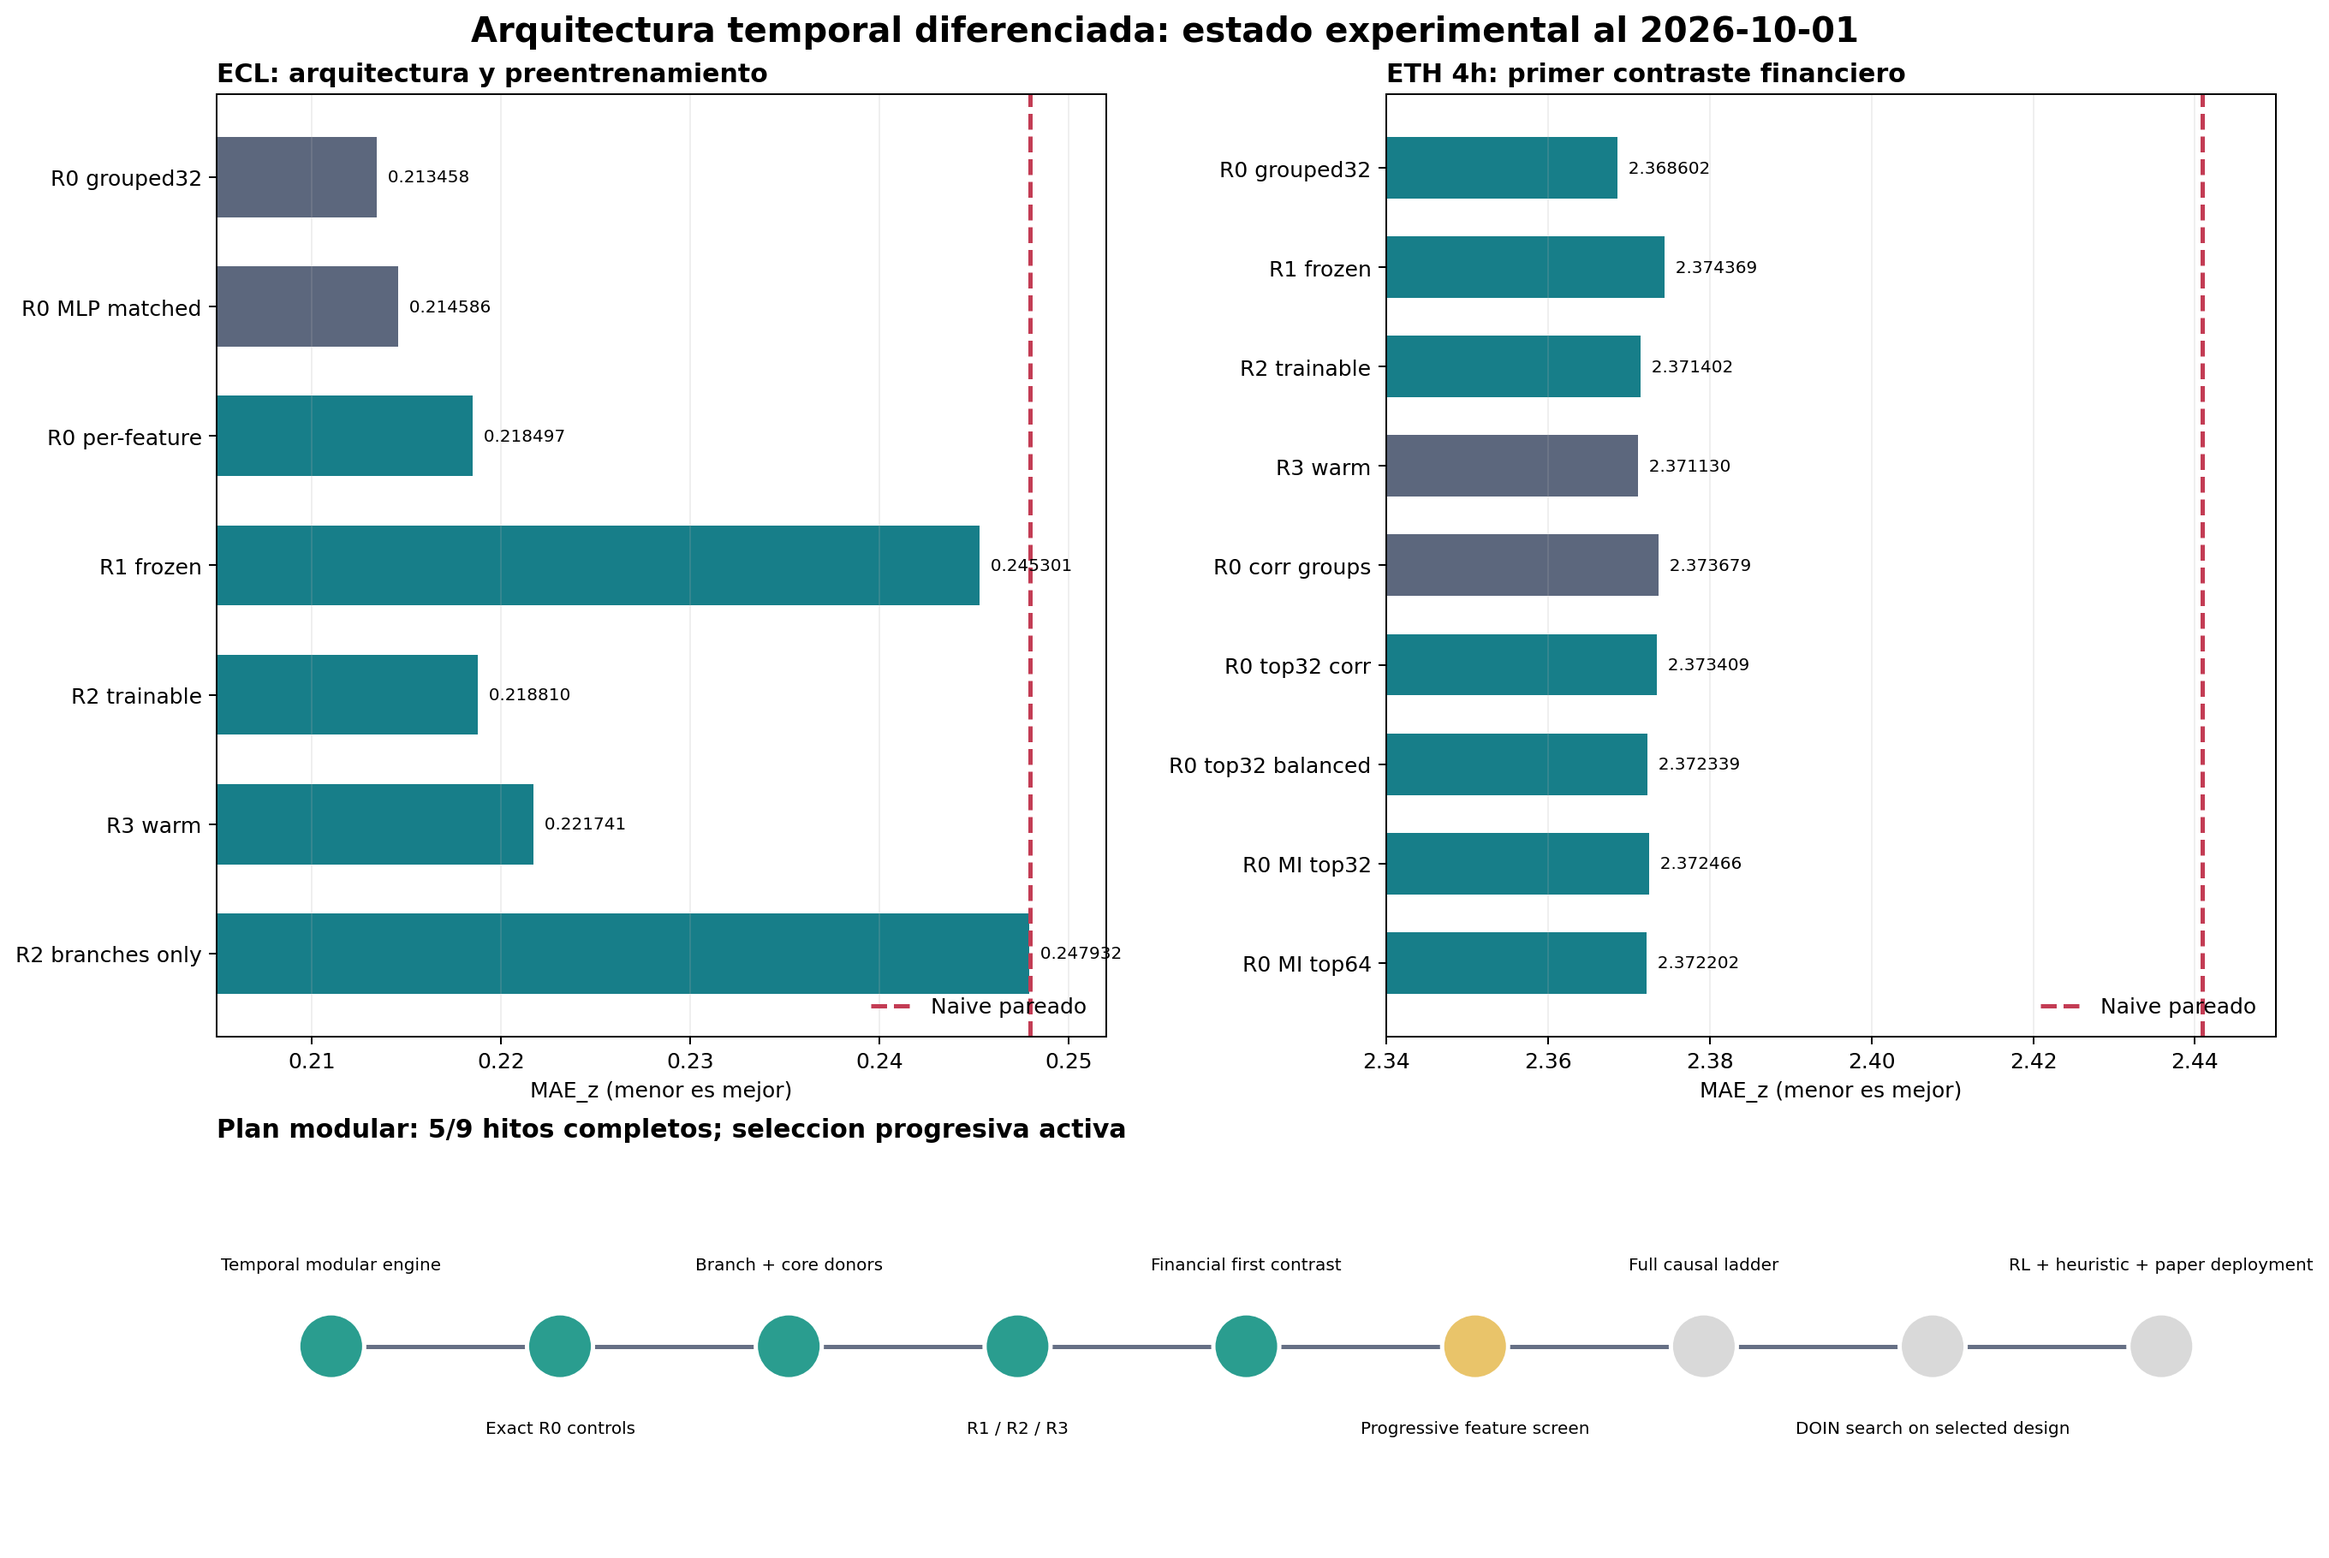
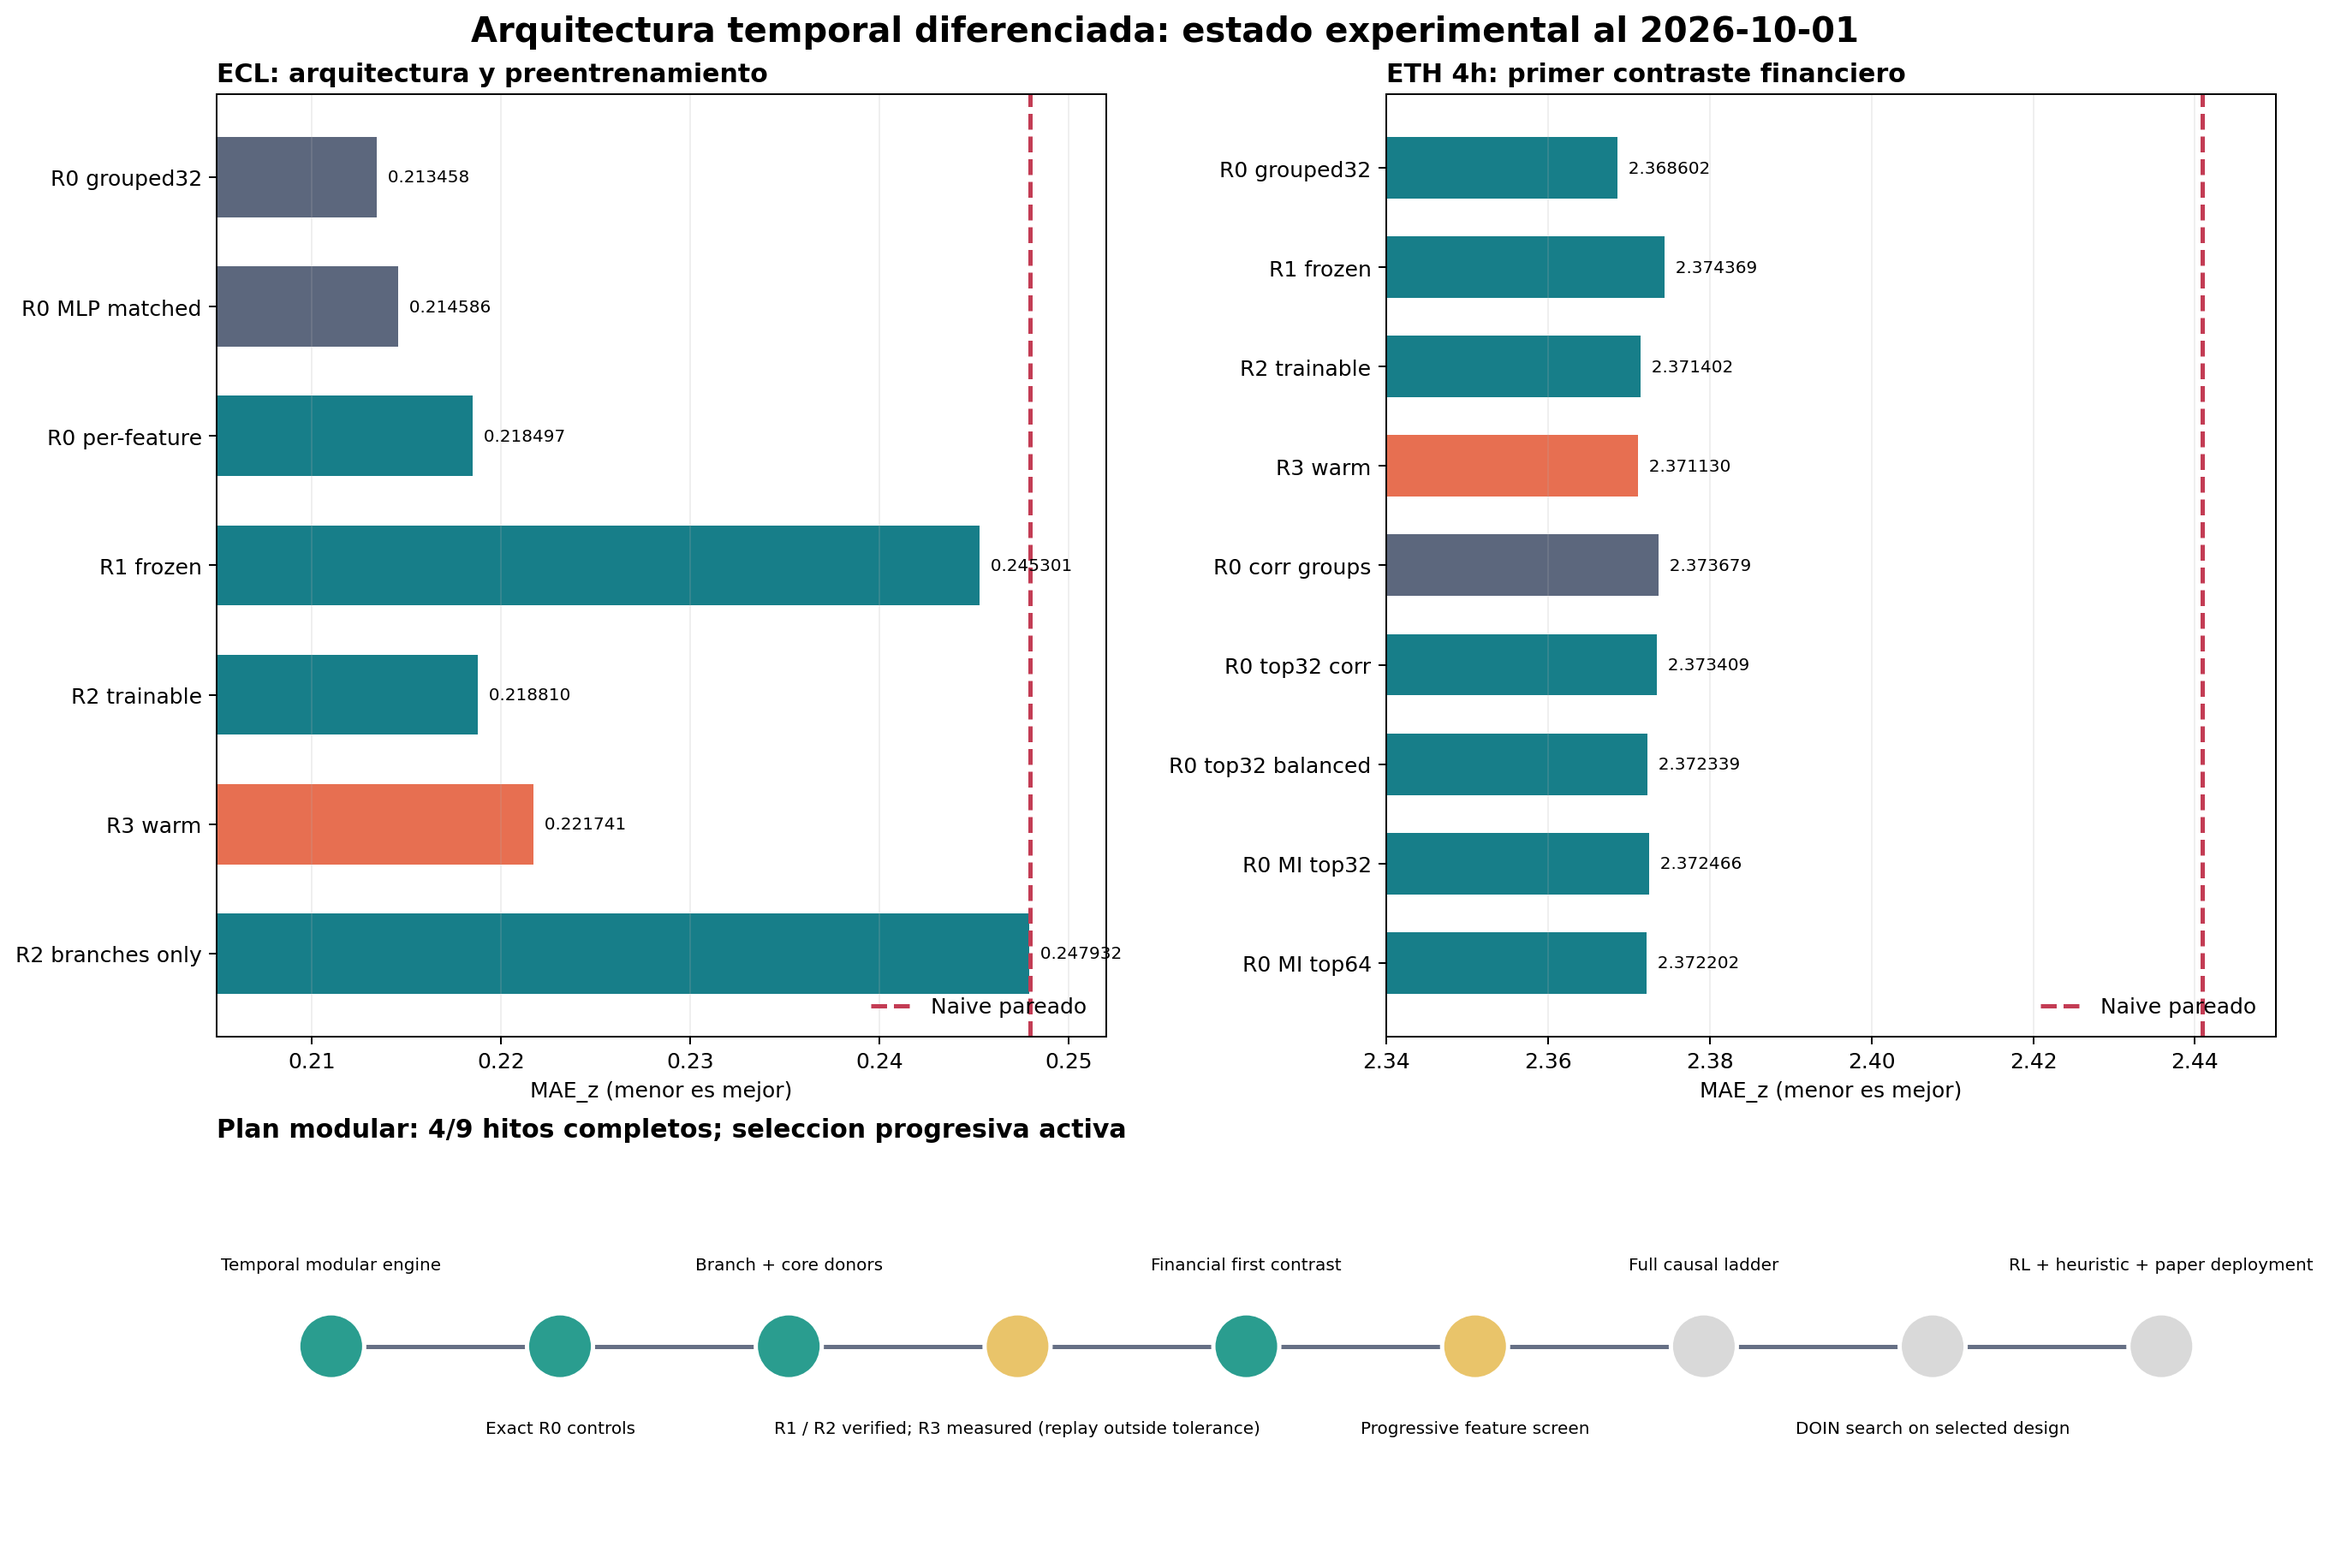
Correct modular progress status labels, regenerate figure, add pending-jobs and label tests

Changed region(s): [[0.0938, 0.4923, 0.25, 0.5538], [0.5938, 0.2769, 0.7188, 0.3385], [0.4062, 0.8308, 0.4688, 0.9231]]

diff --git a/tests/test_modular_progress_labels.py b/tests/test_modular_progress_labels.py
@@ -1,0 +1,37 @@
+import json
+from pathlib import Path
+
+from tools.render_modular_progress import OUTSIDE_TOLERANCE_COLOR, VERIFIED_COLOR, status_color
+
+EV = Path(__file__).resolve().parents[1] / "docs/audits/evidence/modular_architecture_20261001"
+SUMMARY = json.loads((EV / "SUMMARY.json").read_text())
+FUTURE = ("Full causal ladder", "DOIN search", "RL + heuristic")
+
+
+def _row(block, label):
+    return next(r for r in SUMMARY[block]["rows"] if r["label"] == label)
+
+
+def test_top64_mi_verified():
+    assert _row("eth", "R0 MI top64")["status"] == "verified"
+
+
+def test_r3_measured_replay_outside_tolerance():
+    for block in ("ecl", "eth"):
+        status = _row(block, "R3 warm")["status"]
+        assert status.startswith("measured") and "outside" in status
+        assert status_color(status) == OUTSIDE_TOLERANCE_COLOR != VERIFIED_COLOR
+
+
+def test_no_future_item_complete():
+    for m in SUMMARY["milestones"]:
+        if m["label"].startswith(FUTURE):
+            assert m["state"] == "pending"
+        if m["label"].startswith("R1 / R2"):
+            assert m["state"] != "complete"
+
+
+def test_pending_jobs_fields():
+    jobs = json.loads((EV / "PENDING_JOBS.json").read_text())["jobs"]
+    for j in jobs:
+        assert {"owner", "gpu", "dependency", "next_artifact"} <= set(j)

diff --git a/tools/render_modular_progress.py b/tools/render_modular_progress.py
@@ -11,11 +11,25 @@ import matplotlib.pyplot as plt
 import numpy as np
 
 
+VERIFIED_COLOR = "#177E89"
+MEASURED_COLOR = "#5C677D"
+OUTSIDE_TOLERANCE_COLOR = "#E76F51"
+
+
+def status_color(status):
+    """Only an exact 'verified' status is teal; replay-outside-tolerance is flagged."""
+    if status == "verified":
+        return VERIFIED_COLOR
+    if "outside" in status:
+        return OUTSIDE_TOLERANCE_COLOR
+    return MEASURED_COLOR
+
+
 def _metric_panel(axis, title, block, naive_key, xlim=None):
     rows = block["rows"]
     labels = [row["label"] for row in rows]
     values = [row["mae_z"] for row in rows]
-    colors = ["#177E89" if row["status"] == "verified" else "#5C677D" for row in rows]
+    colors = [status_color(row["status"]) for row in rows]
     positions = np.arange(len(rows))
     axis.barh(positions, values, color=colors, height=0.62)
     naive = block[naive_key]
